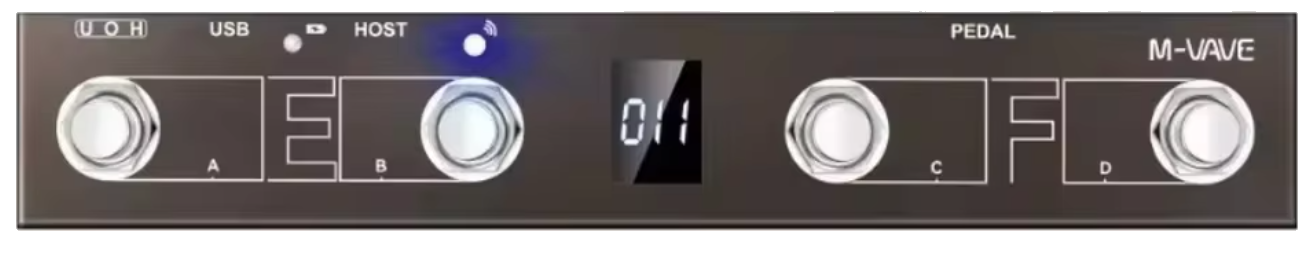
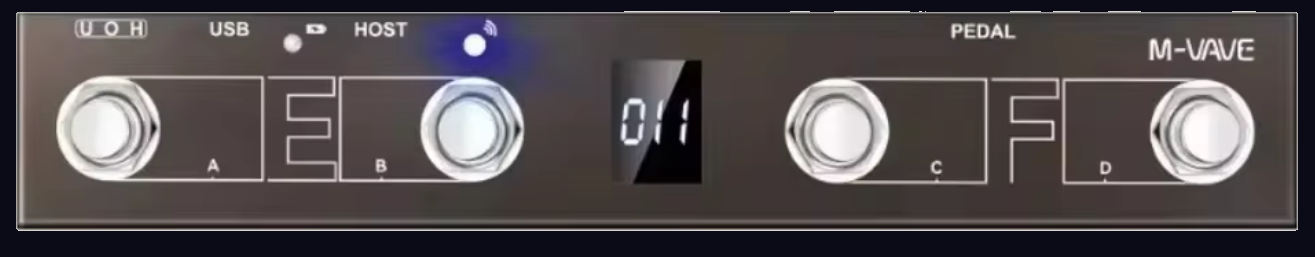
style(pedais): fotos com fundo escuro reto, page turner menor, filtro escuro + vinheta preta curta
- Imagens achatadas num fundo escuro do tema (11,11,24) -> retangulo reto,
  sem a franja/recorte feio. Page turner menor (236px) que o chocolate (340px).

- Filtro nas imagens: brightness 0.8 + contrast 1.05 + saturate 1.05 (mais
  escuras e bonitas). Vinheta preta CURTA em volta (inset shadow) + cantos
  arredondados.

Changed region(s): [[0.0, 0.0, 1.0, 1.0]]

diff --git a/src/main.ts b/src/main.ts
@@ -4231,9 +4231,10 @@ ctaUrl: '/plans?renew=true',
             <span style="font-size:0.92rem;font-weight:700;color:#fff;">${T('pageTurner')}</span>
             <span style="font-size:0.6rem;font-weight:700;color:${CYAN};background:rgba(0,212,255,0.1);border:1px solid rgba(0,212,255,0.28);border-radius:999px;padding:0.1rem 0.45rem;">${T('pageTurnerTag')}</span>
           </div>
-          <div style="margin:0.55rem 0 0.85rem;">
-            <img src="/img/pedal-pageturner.png" alt="M-VAVE Page Turner" style="width:100%;max-width:340px;display:block;margin:0 auto;filter:saturate(1.06) brightness(1.04) contrast(1.02) drop-shadow(0 4px 12px rgba(0,0,0,0.5));" onerror="this.style.display='none';this.nextElementSibling.style.display='flex';">
-            <div style="display:none;gap:0.6rem;background:linear-gradient(160deg,rgba(30,30,52,0.85),rgba(12,12,26,0.95));border:1px solid rgba(255,255,255,0.08);border-radius:14px;padding:0.7rem;">
+          <div style="position:relative;max-width:236px;margin:0.55rem auto 0.85rem;border-radius:10px;overflow:hidden;">
+            <img src="/img/pedal-pageturner.png" alt="M-VAVE Page Turner" style="width:100%;display:block;filter:brightness(0.8) contrast(1.05) saturate(1.05);" onerror="this.style.display='none';this.parentElement.querySelector('.pd-vig').style.display='none';this.parentElement.querySelector('.pd-fb').style.display='flex';">
+            <div class="pd-vig" style="position:absolute;inset:0;pointer-events:none;border-radius:10px;box-shadow:inset 0 0 12px 4px rgba(0,0,0,0.85);"></div>
+            <div class="pd-fb" style="display:none;gap:0.6rem;align-items:center;background:linear-gradient(160deg,#1c1c30,#0c0c1a);padding:0.7rem;">
               ${treadle(CYAN)}${treadle(PURPLE)}
             </div>
           </div>
@@ -4259,9 +4260,10 @@ ctaUrl: '/plans?renew=true',
             <span style="font-size:0.92rem;font-weight:700;color:#fff;">${T('chocolate')}</span>
             <span style="font-size:0.6rem;font-weight:700;color:${PURPLE};background:rgba(139,92,246,0.1);border:1px solid rgba(139,92,246,0.28);border-radius:999px;padding:0.1rem 0.45rem;">${T('chocolateTag')}</span>
           </div>
-          <div style="margin:0.55rem 0 0.85rem;">
-            <img src="/img/pedal-chocolate.png" alt="M-VAVE Chocolate" style="width:100%;max-width:340px;display:block;margin:0 auto;filter:saturate(1.06) brightness(1.04) contrast(1.02) drop-shadow(0 4px 12px rgba(0,0,0,0.5));" onerror="this.style.display='none';this.nextElementSibling.style.display='flex';">
-            <div style="display:none;gap:0.6rem;justify-content:space-around;align-items:center;background:linear-gradient(160deg,rgba(30,30,52,0.85),rgba(12,12,26,0.95));border:1px solid rgba(255,255,255,0.08);border-radius:14px;padding:0.8rem;">
+          <div style="position:relative;max-width:340px;margin:0.55rem auto 0.85rem;border-radius:10px;overflow:hidden;">
+            <img src="/img/pedal-chocolate.png" alt="M-VAVE Chocolate" style="width:100%;display:block;filter:brightness(0.8) contrast(1.05) saturate(1.05);" onerror="this.style.display='none';this.parentElement.querySelector('.pd-vig').style.display='none';this.parentElement.querySelector('.pd-fb').style.display='flex';">
+            <div class="pd-vig" style="position:absolute;inset:0;pointer-events:none;border-radius:10px;box-shadow:inset 0 0 12px 4px rgba(0,0,0,0.85);"></div>
+            <div class="pd-fb" style="display:none;gap:0.6rem;justify-content:space-around;align-items:center;background:linear-gradient(160deg,#1c1c30,#0c0c1a);padding:0.8rem;">
               ${chip('A', CYAN)}${chip('B', PURPLE)}${chip('C', GREEN)}${chip('D', ORANGE)}
             </div>
           </div>
